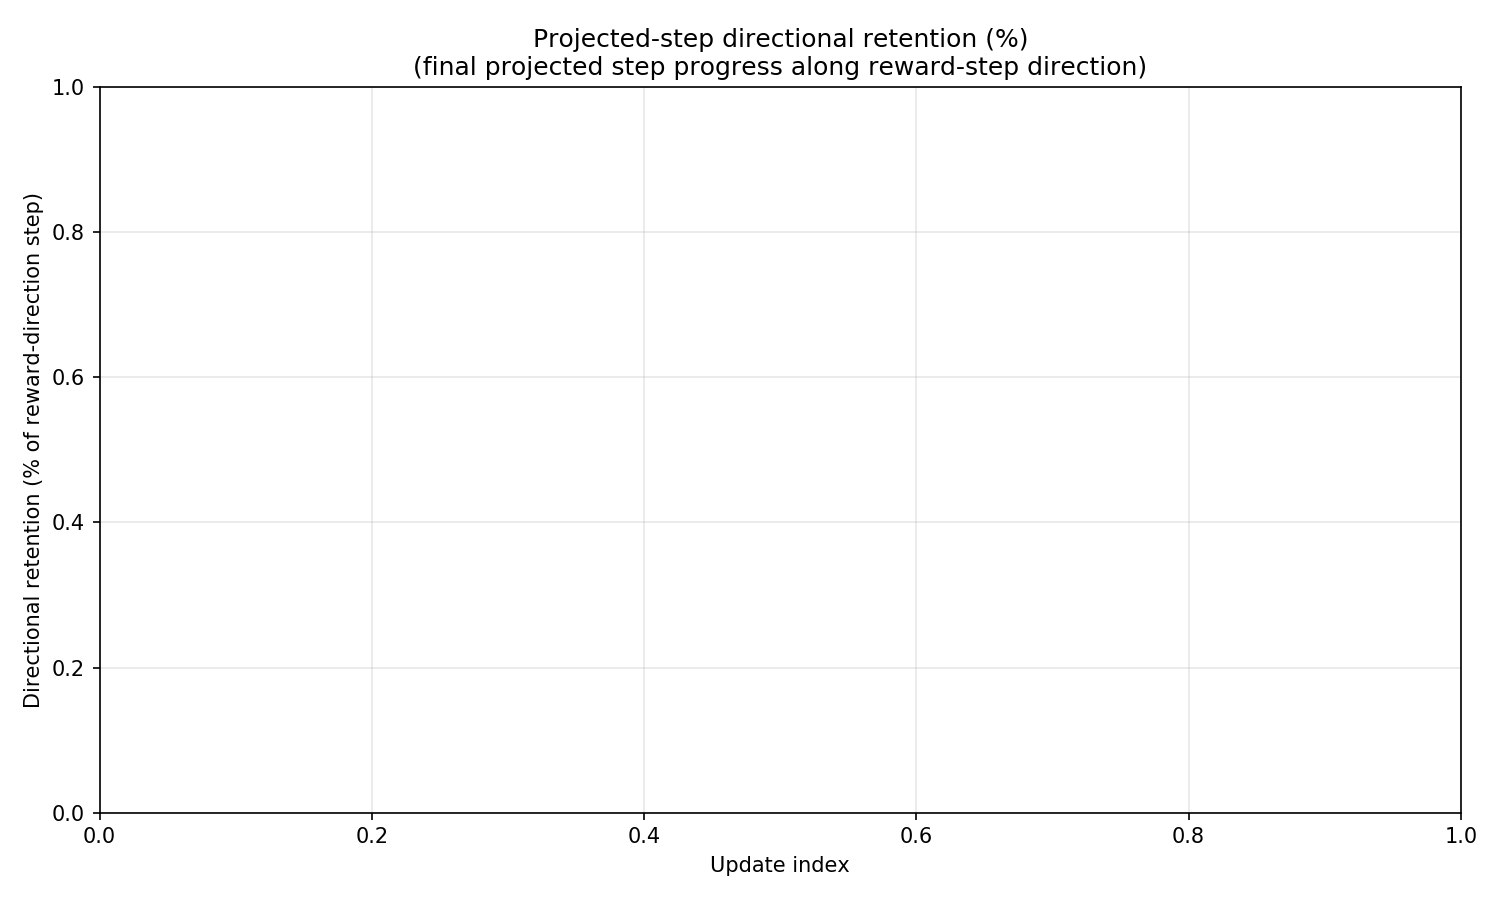
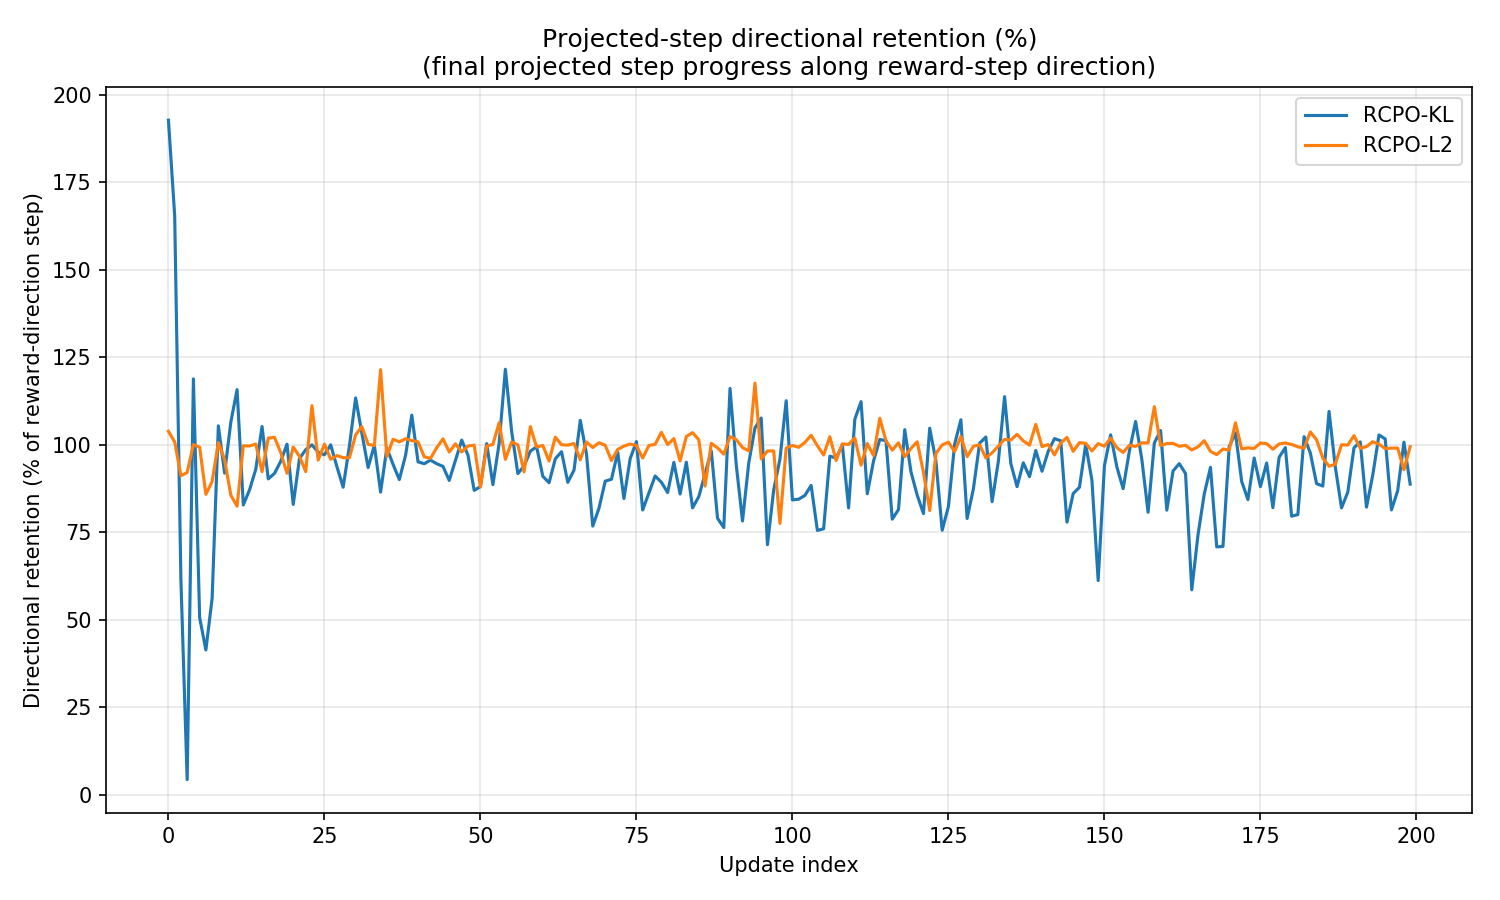
ran tests fpr CRPO

diff --git a/RCPO_README.md b/RCPO_README.md
@@ -1,0 +1,66 @@
+# RCPO Run and Plotting Notes
+
+Run these commands from the repository root.
+
+## Run RCPO experiments
+
+Run the KL version:
+
+```bash
+python sandbox/cpo/experiments/RCPO_KL_point_gather.py
+```
+
+Run the L2 version:
+
+```bash
+python sandbox/cpo/experiments/RCPO_L2_point_gather.py
+```
+
+These should write experiment logs under paths like:
+
+```text
+data/local/RCPO-KL-PointGather/.../progress.csv
+data/local/RCPO-L2-PointGather/.../progress.csv
+```
+
+## Generate comparison plots
+
+After both runs finish, generate comparison plots with:
+
+```bash
+python scripts/plot_rcpo_diagnostics.py \
+  'data/local/RCPO-KL-PointGather/RCPO_KL-PointGather_*/progress.csv' \
+  'data/local/RCPO-L2-PointGather/RCPO_L2-PointGather_*/progress.csv' \
+  --labels RCPO-KL RCPO-L2 \
+  --output-dir plots/rcpo_point_gather_compare
+```
+
+Plots will be written to:
+
+```text
+plots/rcpo_point_gather_compare/
+```
+
+Expected outputs include reward, raw cost, and projected-step diagnostic plots.
+
+## Plot only KL
+
+```bash
+python scripts/plot_rcpo_diagnostics.py \
+  'data/local/RCPO-KL-PointGather/RCPO_KL-PointGather_*/progress.csv' \
+  --labels RCPO-KL \
+  --output-dir plots/rcpo_kl_point_gather
+```
+
+## Plot only L2
+
+```bash
+python scripts/plot_rcpo_diagnostics.py \
+  'data/local/RCPO-L2-PointGather/RCPO_L2-PointGather_*/progress.csv' \
+  --labels RCPO-L2 \
+  --output-dir plots/rcpo_l2_point_gather
+```
+
+## Environment note
+
+This old rllab code may require the intended conda environment and a working MuJoCo license/config before the experiments will run successfully.
